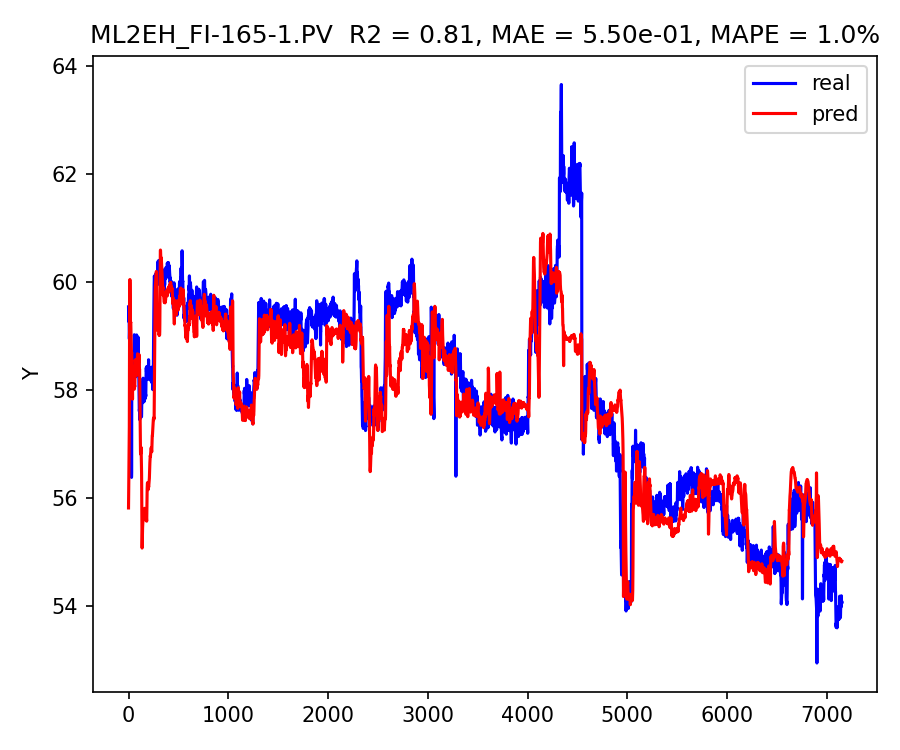
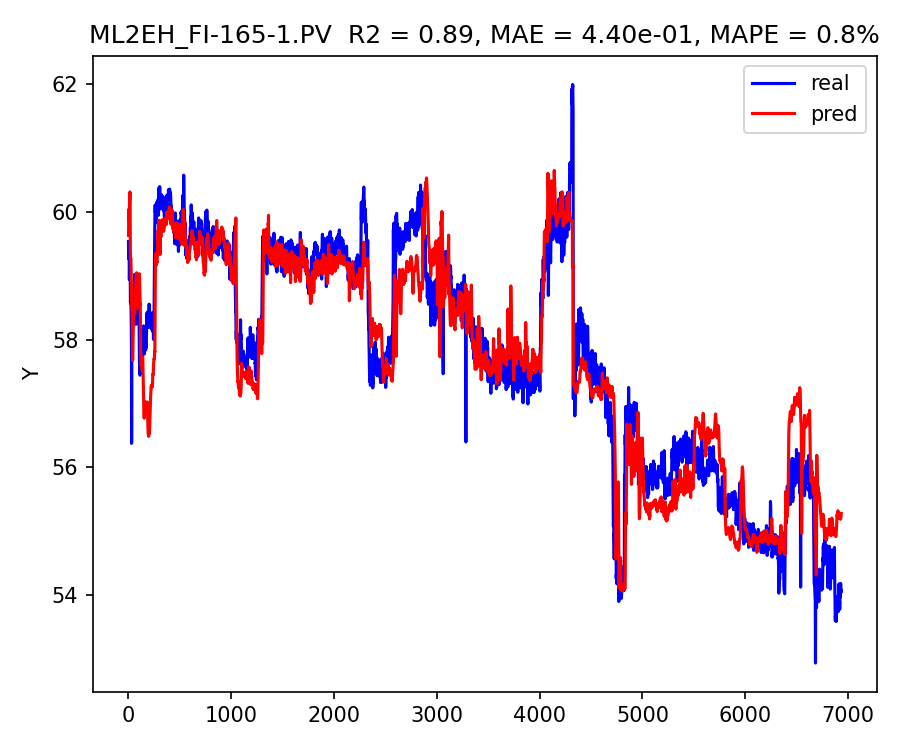
module update

diff --git a/main_code.py b/main_code.py
@@ -6,7 +6,7 @@ from sklearn.model_selection import train_test_split
 
 from module.Utilities import preprocessing , error_callback
 from module.dim_reduce import PCA as PCA_EJ ,UMAP as UMAP_EJ ,tSNE as tSNE_EJ
-from module.plot_figure import PCA_plot , UMPA_plot , TSNE_plot
+from module.plot_figure import PCA_plot , UMPA_plot , TSNE_plot ,general_plot
 from module.nn_regression import seq2seq
 from module.nn_plot_figure import seq2seq_plot
 
@@ -45,9 +45,11 @@ def main():
                       'ML2EH_TI-134-1.PV','ML2EH_TI-134-2.PV','ML2EH_TI-126-4.PV',
                       'ML2EH_TI-126-5.PV','ML2EH_TI-126-6.PV','ML2EH_TI-126-7.PV',
                       'ML2EH_TI-127-1.PV','ML2EH_TI-127-2.PV','ML2EH_TI-128-3.PV',
-                      'ML2EH_TI-126-8.PV','ML2EH_TI-126-2.PV','ML2EH_FIC-115-3.PV',]
-        output_list = ['ML2EH_FI-165-1.PV','ML2EH_TI-128-1.PV','ML2EH_H143-O2',
-                       'ML2EH_TIC-126-1.PV',] #'ML2EH_TI-126-3.PV',
+                      'ML2EH_TI-126-8.PV','ML2EH_TI-126-2.PV','ML2EH_FIC-115-3.PV',
+                      ]
+        output_list = ['ML2EH_FI-165-1.PV','ML2EH_H143-O2','ML2EH_TI-128-1.PV',
+                       'ML2EH_TIC-126-1.PV',
+                       ] #'ML2EH_TI-126-3.PV',
 
 
         input_index_list,output_index_list=preprocessing.find_index(data.columns,input_list,output_list)
@@ -111,9 +113,17 @@ def main():
 
         all_y_test=np.concatenate(all_y_test, axis=0)
         all_y_pred = np.concatenate(all_y_pred, axis=0)
+
+
         seq2seq_plot.plot_prediction(all_y_test, all_y_pred, output_list, step_index=1)
         seq2seq_plot.plot_prediction(all_y_test, all_y_pred, output_list, step_index=9)
+
         # int('s')
+        A=all_y_test[:,1,:]
+        rows,cols = np.where(abs(A-mean_data[output_index_list])>std_data[output_index_list])
+        unique_rows = np.unique(rows)
+        seq2seq_plot.plot_prediction(all_y_test[unique_rows,:,:], all_y_pred[unique_rows,:,:], output_list, step_index=1)
+        seq2seq_plot.plot_prediction(all_y_test[unique_rows,:,:], all_y_pred[unique_rows,:,:], output_list, step_index=9)
 
         print('end')
         print(f'start_time_list {start_time_list}')

diff --git a/module/plot_figure/general_plot.py b/module/plot_figure/general_plot.py
@@ -8,7 +8,11 @@ def general_plot_2D(data : np.ndarray,labels : np.ndarray=None,
                     ylabel : str="general figure",
                     figure_name : str="general",):
     plt.figure(figsize=(6, 5))
-    plt.scatter(data[:, 0], data[:, 1], c=labels)
+    if data.ndim == 1 or (data.ndim == 2 and data.shape[1] == 1):
+        x=np.arange(1, len(data) + 1)
+        plt.scatter(x, data, c=labels)
+    else:
+        plt.scatter(data[:, 0], data[:, 1], c=labels)
 
     for i in range(0,len(data),plot_samping):
         plt.text(data[i, 0], data[i, 1], str(i),
@@ -22,6 +26,7 @@ def general_plot_2D(data : np.ndarray,labels : np.ndarray=None,
     plt.show()
 
 def general_plot_2D_color(data : np.ndarray,plot_samping : int =-1):
+
     plt.figure(figsize=(6, 5))
     order_colors = np.arange(len(data))
     sc = plt.scatter(data[:, 0], data[:, 1], c=order_colors, cmap='viridis')
